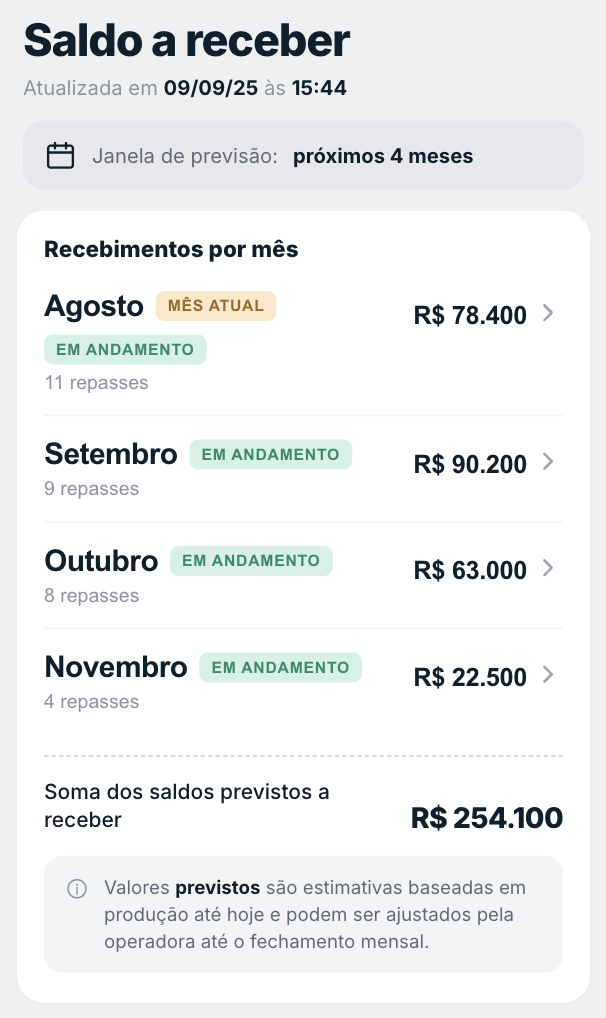
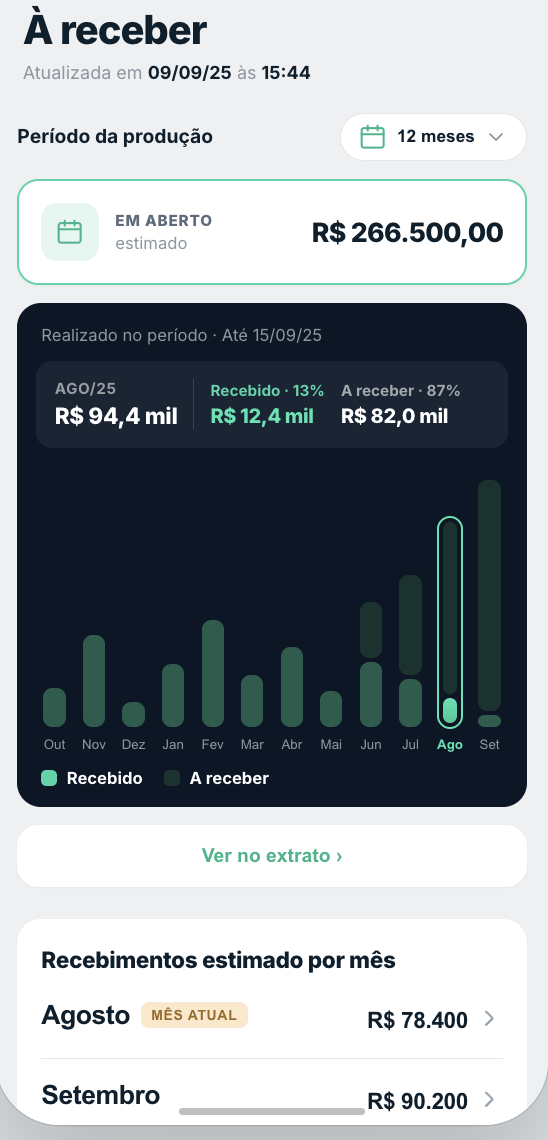
Aba Saldo a receber: nova tela A receber + passos e marcadores

diff --git a/index.html b/index.html
@@ -668,13 +668,13 @@ footer p{font-size:14px;max-width:42ch;margin:0 auto 6px}
           <h3>Pare de receber surpresas</h3>
           <div class="tp-tagline">Saiba, com antecedência, quanto e quando vai cair cada recebimento.</div>
           <div class="tp-steps">
-            <div class="tp-step"><span class="n">1</span><div><b>Previsão mês a mês</b><p>Calculada a partir dos seus atendimentos e das regras de cada hospital.</p></div></div>
-            <div class="tp-step"><span class="n">2</span><div><b>Entenda de onde vem</b><p>Toque num mês e veja quais atendimentos formam o valor.</p></div></div>
-            <div class="tp-step"><span class="n">3</span><div><b>Sempre atualizado</b><p>O "mês atual" mostra o ciclo em andamento, sem você conferir nada.</p></div></div>
+            <div class="tp-step"><span class="n">1</span><div><b>Quanto ainda vem</b><p>O total em aberto, estimado a partir da sua produção.</p></div></div>
+            <div class="tp-step"><span class="n">2</span><div><b>Recebido × a receber</b><p>O gráfico mostra, mês a mês, o que você já recebeu e o que ainda está a receber.</p></div></div>
+            <div class="tp-step"><span class="n">3</span><div><b>Previsão mês a mês</b><p>A previsão de cada mês, com o mês atual em andamento e os próximos estimados.</p></div></div>
           </div>
           <div class="tp-feel">O que você sente: <b>tranquilidade pra planejar</b></div>
         </div>
-        <div class="device"><div class="scr"><img src="assets/saldo.png" alt="Tela de saldo a receber: previsão de recebimentos mês a mês e soma dos saldos previstos"><span class="pin" style="top:24.5%;left:15%">1</span><span class="pin" style="top:45%;left:88%">2</span><span class="pin" style="top:55%;left:39%">3</span></div></div>
+        <div class="device"><div class="scr"><img src="assets/saldo.png" alt="Tela de valores a receber: total em aberto, gráfico de recebido e a receber por mês, e previsão mês a mês"><span class="pin" style="top:20%">1</span><span class="pin" style="top:49%">2</span><span class="pin" style="top:88%">3</span></div></div>
       </div>
     </div>
 